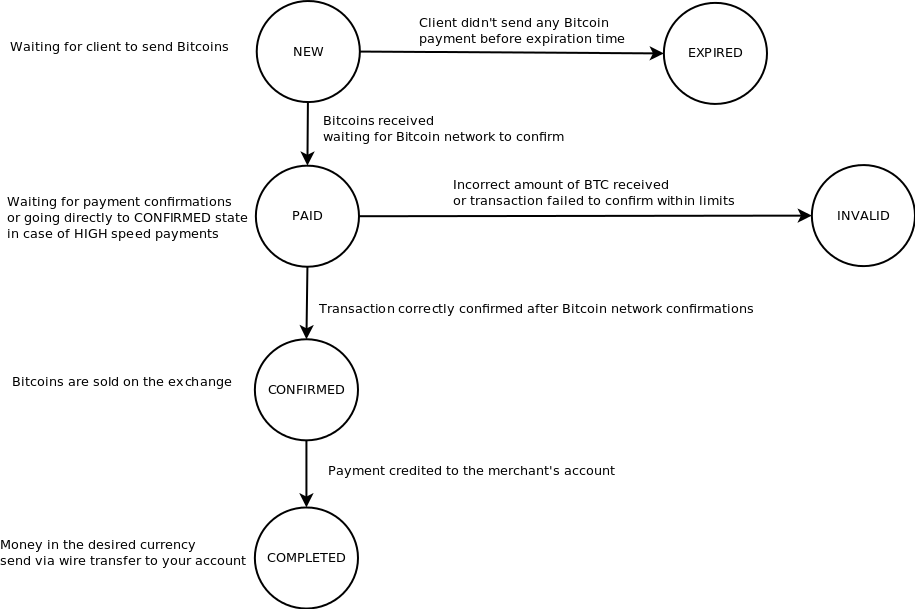
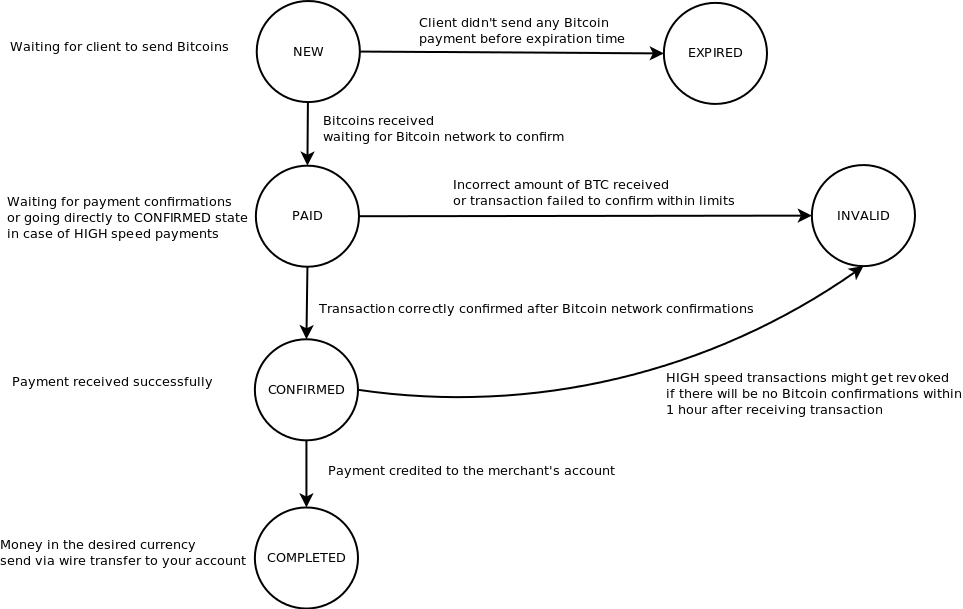
added section on incorrect HIGH speed transactions, example workflow for HIGH speed incorrectly paid transaction

diff --git a/receive-payment-notification.md b/receive-payment-notification.md
@@ -23,8 +23,22 @@ Please note that this is exactly the same format that is used in "Check Payment 
 
 For each `CONFIRMED` transaction we will attempt to call `notificationUrl` at least once. This means that you might receive duplicated notifications. In case you have missed payment notification (for example your server wasn't available) you can login to the dashboard and request a resend or use our API to request additional notification.
 
-### Payment Notification Security
+## Payment Notification Security
 
 It is possible that malicious user will try to attempt to send `POST` request to your notification endpoint saying that his payment was confirmed when in fact it wasn't paid.
 
 To mitigate that risk it is recommended that after receiving payment notification you will query our API to confirm payment status.
+
+## Revoking Payments
+
+This section applies only to `HIGH` speed transactions.  
+
+The `HIGH` speed transaction will go directly from `NEW` to `CONFIRMED` state when we receive a Bitcoin payment, it is possible that this payment ended up as incorrect - for example it wasn't confirmed by the Bitcoin network, it might be a user error or a attempt to perform a double spend attack.  
+
+If we don't receive a Bitcoin payment we will change status from `CONFIRMED` to `INVALID`, we will call your `notificationUrl` endpoint and you should stop processing this transaction on your side.  
+
+We wait for up to 1 hour for a payment to go through.  
+
+It's worth to note that this situation is very rare and it shouldn't prevent you from accepting payments at `HIGH` speed.
+
+Please also note that if the same situation happened for a `LOW` or `MEDIUM` speed transaction, they just wouldn't enter `CONFIRMED` state and will also be marked as `INVALID` 1 hour later.

diff --git a/README.md b/README.md
@@ -24,6 +24,7 @@ The following actions are available through our API:
 - [Check Payment Status](check-payment-status.md)
 - [Receive Payment Notification](receive-payment-notification.md)
   - [Payment Notification Security](receive-payment-notification.md#payment-notification-security)
+  - [Revoking Payments](receive-payment-notification.md#revoking-payments)
 - [Request Payment Notification Resend](#request-payment-notification-resend)
 - [Payment Workflows/Scenarios](payment-workflows.md)
 - [Staying updated](#staying-updated)

diff --git a/payment-workflows.md b/payment-workflows.md
@@ -12,3 +12,6 @@ This section describes few of the payment scenarios that are possible, diagrams 
 
 ### Underpaid payment:
 ![Underpaid payment](https://raw.githubusercontent.com/Bitcoinpaygate1/api-docs/master/images/underpaid-payment.png)
+
+### HIGH speed transaction paid incorrectly:
+![HIGH speed transaction paid incorrectly](https://raw.githubusercontent.com/Bitcoinpaygate1/api-docs/master/images/high-speed-paid-incorrectly.png)
